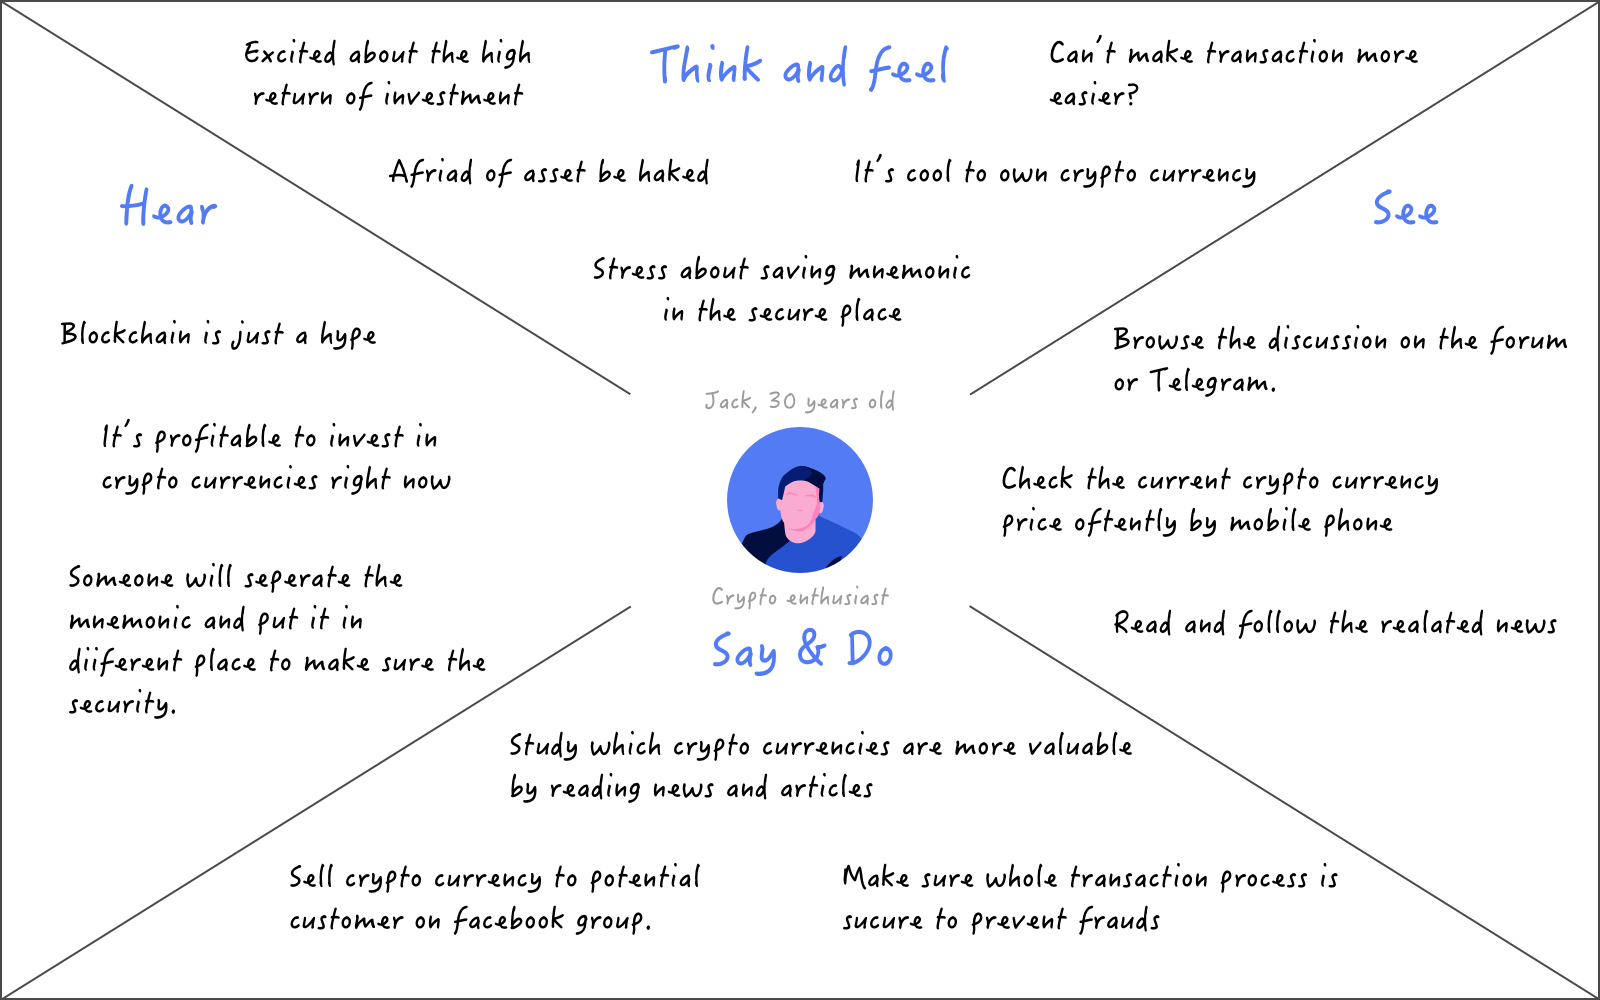
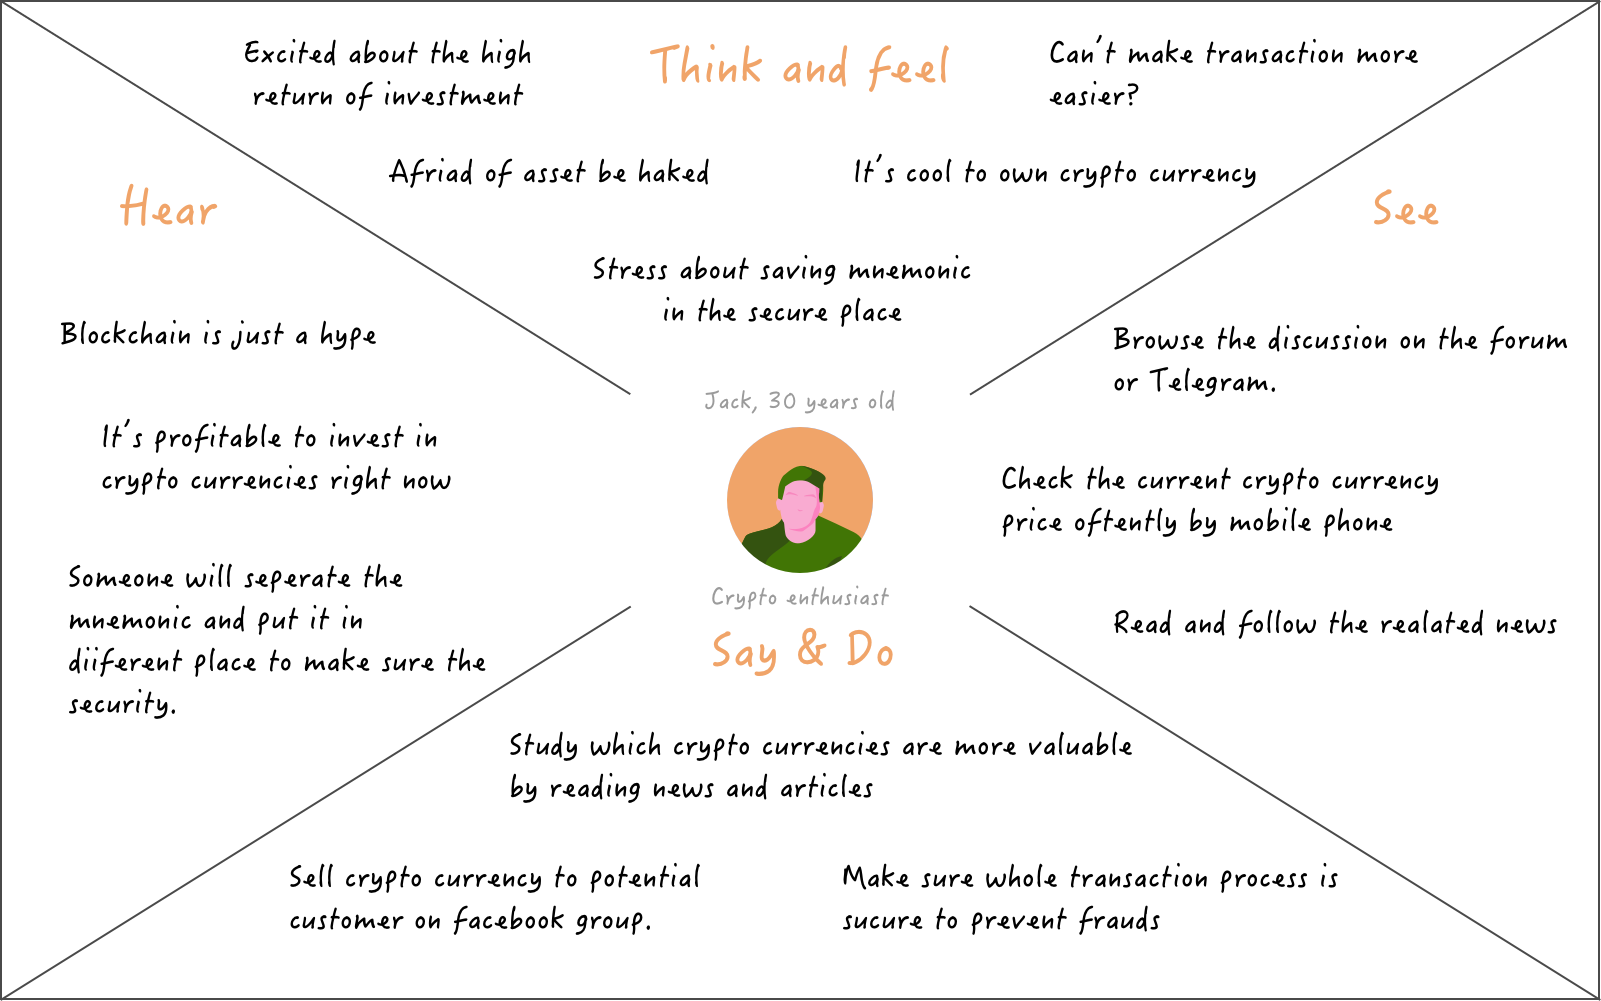
update

diff --git a/zion-wallet.html b/zion-wallet.html
@@ -259,7 +259,7 @@
             Then we classified and organized the pain points into similar categories by using affinity mapping. After discussion, we placed the highest priority pain points
             into the 2 x 2 matrix.<br><br>
 
-            <img draggable="false" src="/images/map_n.png" alt="" class="responsive-c" > 
+            <img draggable="false" src="/images/map_o.png" alt="" class="responsive-c" > 
             <br><br>
             As shown in the 2 x 2 matrix, we can understand that the recovery key is the most important part that contains both the business value and user need. It’s also the critical problem that need to be clarified and solved for the following product design.
             <br>
